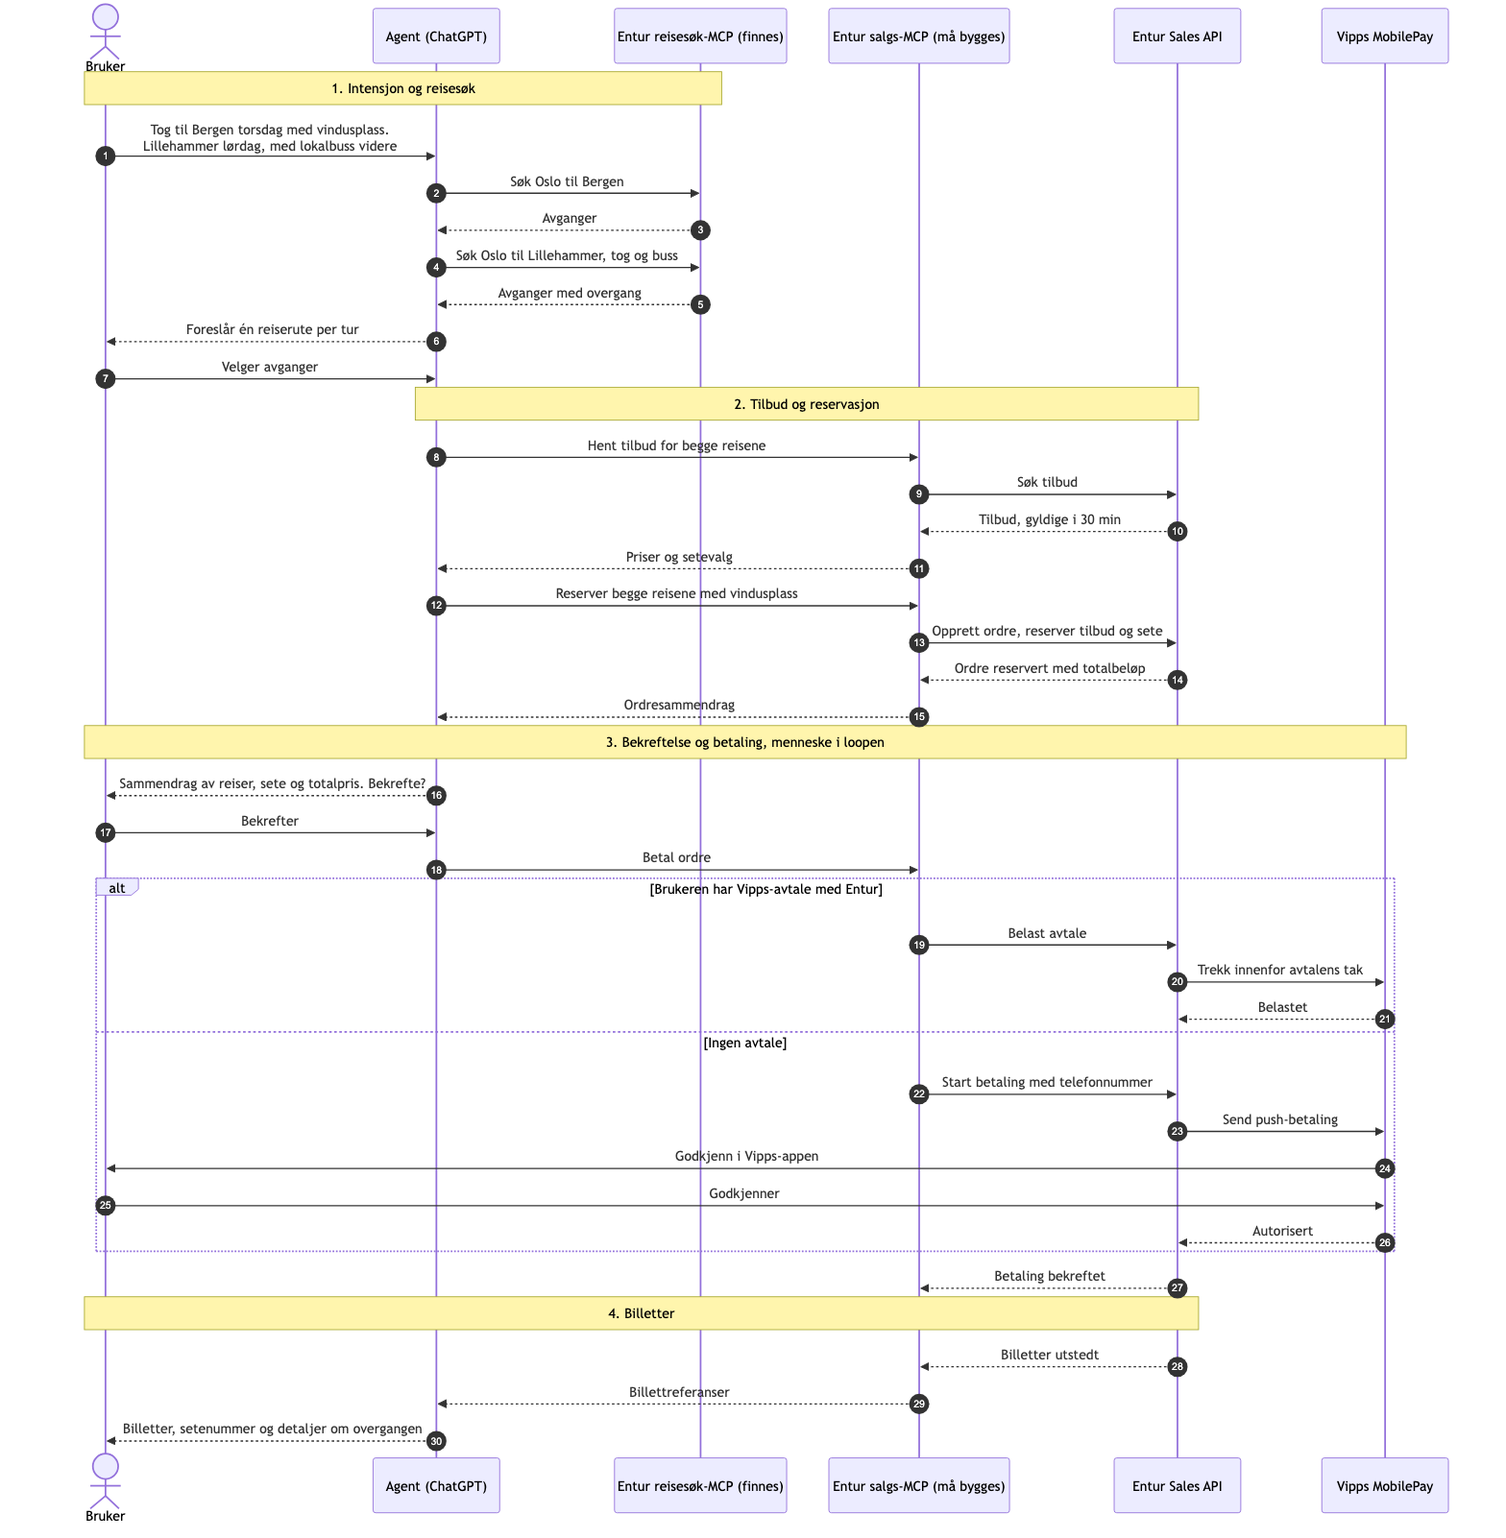
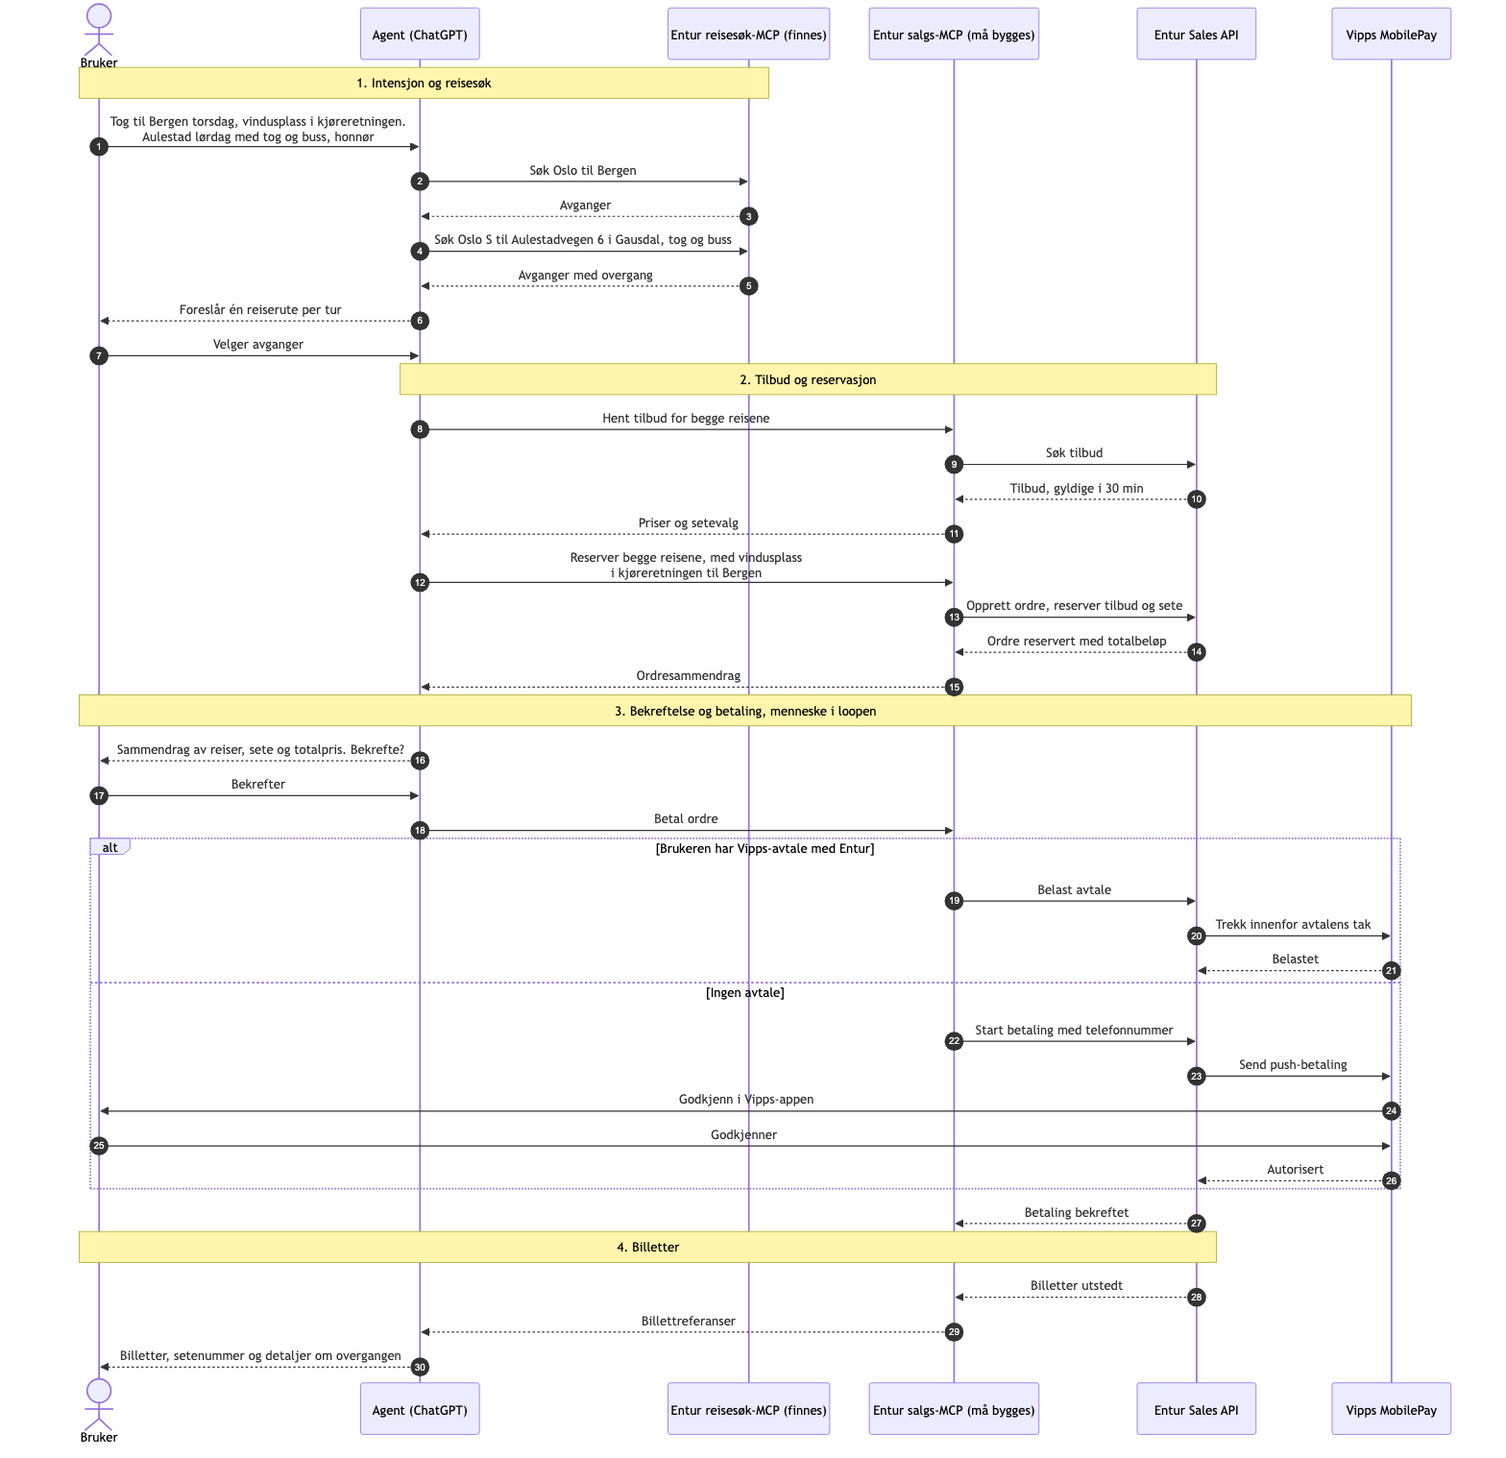
Aulestad med honnørbillett og vindusplass i kjøreretningen til Bergen
Use-case 2 går nå til Bjørnstjerne Bjørnsons hjem på Aulestad i Gausdal,
med honnørbillett på tog og buss. Use-case 1 ber om vindusplass i
kjøreretningen. Oversiktssiden, diagramkildene og STATUS.md følger med.

Claude-Session: https://claude.ai/code/session_015NLFDcrihZTFgXd8Z9LAtM

diff --git a/brukerflyt/lillehammer.html b/brukerflyt/lillehammer.html
@@ -3,7 +3,7 @@
 <head>
 <meta charset="utf-8">
 <meta name="viewport" content="width=device-width,initial-scale=1">
-<title>Tog og buss til Lillehammer</title>
+<title>Tog og buss til Aulestad</title>
 <link rel="preconnect" href="https://fonts.googleapis.com">
 <link rel="preconnect" href="https://fonts.gstatic.com" crossorigin>
 <link href="https://fonts.googleapis.com/css2?family=Inter:wght@400;500;600;700&family=DM+Mono:wght@400;500&display=swap" rel="stylesheet">
@@ -76,8 +76,8 @@
 <header class="hero">
   <div class="inner">
     <a class="crumb" href="agentisk-billettkjop.html">← Agentisk billettkjøp</a>
-    <h1>Tog og buss til Lillehammer</h1>
-    <p class="sub">Use-case 2: agenten setter sammen en reise med tog og lokalbuss, kjøper billett for begge etappene og betaler med Vipps etter at brukeren har bekreftet.</p>
+    <h1>Tog og buss til Aulestad</h1>
+    <p class="sub">Use-case 2: agenten finner adressen til Bjørnstjerne Bjørnsons hjem på Aulestad, setter sammen en reise med tog og buss, kjøper honnørbillett for begge etappene og betaler med Vipps etter at brukeren har bekreftet.</p>
     <div class="jump">
       <a href="#scenario">Scenario</a>
       <a href="#flyt">Flyten</a>
@@ -89,12 +89,12 @@
 <section id="scenario">
   <div class="wrap">
     <h2>Scenario</h2>
-    <p class="lead">Brukeren oppgir et sted og et tidspunkt, ikke en rute. Agenten finner kombinasjonen av tog og buss, kjøper begge billettene samlet og forklarer overgangen.</p>
+    <p class="lead">Brukeren oppgir navnet på et sted og et tidspunkt, ikke en adresse eller en rute. Agenten finner at Aulestad ligger i Aulestadvegen 6 i Gausdal, setter sammen tog og buss, kjøper begge billettene samlet og forklarer overgangen.</p>
     <div class="grid g2">
       <div class="card trip">
         <span class="tag">TOG OG BUSS</span>
-        <h3>Oslo S til Håkons Hall</h3>
-        <ul class="legs"><li><span>Lørdag</span>Tog Oslo S til Lillehammer stasjon</li><li><span>Overgang</span>Lokalbuss fra stasjonen til Håkons Hall</li><li><span>Frist</span>Fremme før kl. 12</li></ul>
+        <h3>Oslo S til Aulestad</h3>
+        <ul class="legs"><li><span>Lørdag</span>Tog Oslo S til Lillehammer stasjon</li><li><span>Overgang</span>Buss fra Lillehammer skysstasjon til holdeplassen Aulestad</li><li><span>Billett</span>Honnør på begge etappene</li><li><span>Frist</span>Fremme før kl. 12</li></ul>
       </div>
     </div>
   </div>
@@ -122,15 +122,15 @@ sequenceDiagram
     participant V as Vipps MobilePay
 
     Note over B,R: 1. Intensjon og reisesøk
-    B->>A: Jeg skal til Håkons Hall i Lillehammer lørdag<br/>og må være der før kl. 12
-    A->>R: Søk Oslo S til Håkons Hall, ankomst før 12
+    B->>A: Jeg skal til Bjørnstjerne Bjørnsons hjem på Aulestad<br/>lørdag og må være der før kl. 12. Honnørbillett
+    A->>R: Søk Oslo S til Aulestadvegen 6 i Gausdal,<br/>ankomst før 12
     R-->>A: Reiseforslag med tog og buss
-    A-->>B: Foreslår tog til Lillehammer stasjon<br/>og buss videre, med overgangstid
+    A-->>B: Foreslår tog til Lillehammer<br/>og buss videre til Aulestad, med overgangstid
     B->>A: Velger reiseforslag
 
     Note over A,API: 2. Tilbud for begge etappene
     A->>S: Hent tilbud for hele reisen
-    S->>API: Søk tilbud for tog og buss
+    S->>API: Søk honnørtilbud for tog og buss
     API-->>S: Tilbud for hver etappe, gyldige i 30 min
     S-->>A: Pris per etappe og totalpris
     A->>S: Reserver begge etappene
@@ -139,7 +139,7 @@ sequenceDiagram
     S-->>A: Ordresammendrag
 
     Note over B,V: 3. Bekreftelse og betaling, menneske i loopen
-    A-->>B: Tog, buss, overgangstid og totalpris. Bekrefte?
+    A-->>B: Tog, buss, overgangstid og honnørpris. Bekrefte?
     B->>A: Bekrefter
     A->>S: Betal ordre
     alt Brukeren har Vipps-avtale med Entur
@@ -156,7 +156,7 @@ sequenceDiagram
     API-->>S: Betaling bekreftet
 
     Note over B,API: 4. Billetter og overgang
-    API-->>S: Billetter utstedt for tog og buss
+    API-->>S: Honnørbilletter utstedt for tog og buss
     S-->>A: Billettreferanser
     A-->>B: Billetter, hvor bussen går fra<br/>og hvor lang tid overgangen har
 </pre>
@@ -167,7 +167,7 @@ sequenceDiagram
 <section id="steg">
   <div class="wrap">
     <h2>Stegene</h2>
-    <div class="grid g4"><div class="card"><span class="tag">1 · INTENSJON</span><h3>Reisesøk</h3><p>Brukeren sier hvor og når de må være fremme. Agenten finner en reise med tog og buss gjennom reisesøk-MCP-en og viser overgangstiden.</p></div><div class="card"><span class="tag">2 · RESERVASJON</span><h3>Begge etappene</h3><p>Agenten henter tilbud for tog og buss og reserverer begge i én ordre. Tilbudene er gyldige i 30 minutter.</p></div><div class="card"><span class="tag">3 · BEKREFTELSE</span><h3>Menneske i loopen</h3><p>Brukeren ser sammendraget og bekrefter. Har brukeren en Vipps-avtale med Entur, trekkes beløpet der. Ellers godkjennes en push-betaling i Vipps-appen.</p></div><div class="card"><span class="tag">4 · BILLETTER</span><h3>Levering</h3><p>Billettene utstedes, og agenten forteller hvor bussen går fra og hvor lang tid overgangen har.</p></div></div>
+    <div class="grid g4"><div class="card"><span class="tag">1 · INTENSJON</span><h3>Reisesøk</h3><p>Brukeren navngir stedet og sier når de må være fremme. Agenten finner adressen, Aulestadvegen 6 i Gausdal, og en reise med tog og buss gjennom reisesøk-MCP-en.</p></div><div class="card"><span class="tag">2 · RESERVASJON</span><h3>Begge etappene</h3><p>Agenten henter honnørtilbud for tog og buss og reserverer begge i én ordre. Tilbudene er gyldige i 30 minutter.</p></div><div class="card"><span class="tag">3 · BEKREFTELSE</span><h3>Menneske i loopen</h3><p>Brukeren ser sammendraget og bekrefter. Har brukeren en Vipps-avtale med Entur, trekkes beløpet der. Ellers godkjennes en push-betaling i Vipps-appen.</p></div><div class="card"><span class="tag">4 · BILLETTER</span><h3>Levering</h3><p>Billettene utstedes, og agenten forteller hvor bussen går fra og hvor lang tid overgangen har.</p></div></div>
   </div>
 </section>
 
@@ -185,15 +185,15 @@ sequenceDiagram
     participant V as Vipps MobilePay
 
     Note over B,R: 1. Intensjon og reisesøk
-    B-&gt;&gt;A: Jeg skal til Håkons Hall i Lillehammer lørdag&lt;br/&gt;og må være der før kl. 12
-    A-&gt;&gt;R: Søk Oslo S til Håkons Hall, ankomst før 12
+    B-&gt;&gt;A: Jeg skal til Bjørnstjerne Bjørnsons hjem på Aulestad&lt;br/&gt;lørdag og må være der før kl. 12. Honnørbillett
+    A-&gt;&gt;R: Søk Oslo S til Aulestadvegen 6 i Gausdal,<br/>ankomst før 12
     R--&gt;&gt;A: Reiseforslag med tog og buss
-    A--&gt;&gt;B: Foreslår tog til Lillehammer stasjon&lt;br/&gt;og buss videre, med overgangstid
+    A--&gt;&gt;B: Foreslår tog til Lillehammer&lt;br/&gt;og buss videre til Aulestad, med overgangstid
     B-&gt;&gt;A: Velger reiseforslag
 
     Note over A,API: 2. Tilbud for begge etappene
     A-&gt;&gt;S: Hent tilbud for hele reisen
-    S-&gt;&gt;API: Søk tilbud for tog og buss
+    S-&gt;&gt;API: Søk honnørtilbud for tog og buss
     API--&gt;&gt;S: Tilbud for hver etappe, gyldige i 30 min
     S--&gt;&gt;A: Pris per etappe og totalpris
     A-&gt;&gt;S: Reserver begge etappene
@@ -202,7 +202,7 @@ sequenceDiagram
     S--&gt;&gt;A: Ordresammendrag
 
     Note over B,V: 3. Bekreftelse og betaling, menneske i loopen
-    A--&gt;&gt;B: Tog, buss, overgangstid og totalpris. Bekrefte?
+    A--&gt;&gt;B: Tog, buss, overgangstid og honnørpris. Bekrefte?
     B-&gt;&gt;A: Bekrefter
     A-&gt;&gt;S: Betal ordre
     alt Brukeren har Vipps-avtale med Entur
@@ -219,7 +219,7 @@ sequenceDiagram
     API--&gt;&gt;S: Betaling bekreftet
 
     Note over B,API: 4. Billetter og overgang
-    API--&gt;&gt;S: Billetter utstedt for tog og buss
+    API--&gt;&gt;S: Honnørbilletter utstedt for tog og buss
     S--&gt;&gt;A: Billettreferanser
     A--&gt;&gt;B: Billetter, hvor bussen går fra&lt;br/&gt;og hvor lang tid overgangen har
 </pre>

diff --git a/brukerflyt/agentisk-billettkjop.html b/brukerflyt/agentisk-billettkjop.html
@@ -92,16 +92,17 @@
         <h3>Oslo S til Bergen</h3>
         <ul class="legs">
           <li><span>Torsdag</span>Tog Oslo S til Bergen</li>
-          <li><span>Sete</span>Vindusplass reserveres i samme kjøp</li>
+          <li><span>Sete</span>Vindusplass i kjøreretningen, reservert i samme kjøp</li>
         </ul>
         <span class="more">Les use-caset →</span>
       </a>
       <a class="card trip" href="lillehammer.html">
         <span class="tag">REISE 2 · TOG OG BUSS</span>
-        <h3>Oslo S til Lillehammer</h3>
+        <h3>Oslo S til Aulestad</h3>
         <ul class="legs">
           <li><span>Lørdag</span>Tog Oslo S til Lillehammer stasjon</li>
-          <li><span>Overgang</span>Lokalbuss videre til bestemmelsesstedet</li>
+          <li><span>Overgang</span>Buss videre til Aulestad i Gausdal</li>
+          <li><span>Billett</span>Honnør på begge etappene</li>
         </ul>
         <span class="more">Les use-caset →</span>
       </a>
@@ -131,10 +132,10 @@ sequenceDiagram
     participant V as Vipps MobilePay
 
     Note over B,R: 1. Intensjon og reisesøk
-    B->>A: Tog til Bergen torsdag med vindusplass.<br/>Lillehammer lørdag, med lokalbuss videre
+    B->>A: Tog til Bergen torsdag, vindusplass i kjøreretningen.<br/>Aulestad lørdag med tog og buss, honnør
     A->>R: Søk Oslo til Bergen
     R-->>A: Avganger
-    A->>R: Søk Oslo til Lillehammer, tog og buss
+    A->>R: Søk Oslo S til Aulestadvegen 6 i Gausdal, tog og buss
     R-->>A: Avganger med overgang
     A-->>B: Foreslår én reiserute per tur
     B->>A: Velger avganger
@@ -144,7 +145,7 @@ sequenceDiagram
     S->>API: Søk tilbud
     API-->>S: Tilbud, gyldige i 30 min
     S-->>A: Priser og setevalg
-    A->>S: Reserver begge reisene med vindusplass
+    A->>S: Reserver begge reisene, med vindusplass<br/>i kjøreretningen til Bergen
     S->>API: Opprett ordre, reserver tilbud og sete
     API-->>S: Ordre reservert med totalbeløp
     S-->>A: Ordresammendrag
@@ -181,7 +182,7 @@ sequenceDiagram
     <h2>Stegene</h2>
     <div class="grid g4">
       <div class="card"><span class="tag">1 · INTENSJON</span><h3>Reisesøk</h3><p>Brukeren beskriver reisene med egne ord. Agenten finner avganger og overgangen til buss gjennom reisesøk-MCP-en, og foreslår én rute per reise.</p></div>
-      <div class="card"><span class="tag">2 · RESERVASJON</span><h3>Tilbud og sete</h3><p>Agenten henter tilbud og reserverer begge reisene med vindusplass i én ordre. Tilbudene er gyldige i 30 minutter.</p></div>
+      <div class="card"><span class="tag">2 · RESERVASJON</span><h3>Tilbud og sete</h3><p>Agenten henter tilbud og reserverer begge reisene i én ordre, med vindusplass i kjøreretningen til Bergen og honnørbillett til Aulestad. Tilbudene er gyldige i 30 minutter.</p></div>
       <div class="card"><span class="tag">3 · BEKREFTELSE</span><h3>Menneske i loopen</h3><p>Brukeren ser reiser, sete og totalpris og bekrefter. Har brukeren en Vipps-avtale med Entur, trekkes beløpet der. Ellers godkjennes en push-betaling i Vipps-appen.</p></div>
       <div class="card"><span class="tag">4 · BILLETTER</span><h3>Levering</h3><p>Billettene utstedes, og agenten gir brukeren setenummer og detaljer om overgangen fra tog til buss.</p></div>
     </div>
@@ -194,7 +195,7 @@ sequenceDiagram
     <p class="lead">Tegningen bygger på noen forutsetninger vi må avklare før demoen.</p>
     <ul class="open">
       <li><b>Én ordre for begge reisene.</b> Tillater Sales API at tog og lokalbuss fra ulike operatører selges og betales samlet?</li>
-      <li><b>Valg av vindusplass.</b> Kan brukeren be om vindusplass gjennom salgsflyten, eller får man bare et tildelt sete?</li>
+      <li><b>Valg av vindusplass.</b> Kan brukeren be om vindusplass i kjøreretningen gjennom salgsflyten, eller får man bare et tildelt sete?</li>
       <li><b>Bekreftelse ved avtale.</b> Holder det at brukeren bekrefter i chatten når pengene trekkes fra en eksisterende avtale, eller må det også bekreftes i Vipps-appen?</li>
       <li><b>Hvem er brukeren.</b> Er telefonnummer nok til å knytte kjøpet i ChatGPT til riktig Vipps-bruker og eventuell avtale?</li>
       <li><b>Hvor betalingen kalles fra.</b> Her går betalingen gjennom Enturs Sales API. Alternativet er en egen Vipps-MCP som agenten kaller direkte.</li>
@@ -211,10 +212,10 @@ sequenceDiagram
     participant V as Vipps MobilePay
 
     Note over B,R: 1. Intensjon og reisesøk
-    B-&gt;&gt;A: Tog til Bergen torsdag med vindusplass.&lt;br/&gt;Lillehammer lørdag, med lokalbuss videre
+    B-&gt;&gt;A: Tog til Bergen torsdag, vindusplass i kjøreretningen.&lt;br/&gt;Aulestad lørdag med tog og buss, honnør
     A-&gt;&gt;R: Søk Oslo til Bergen
     R--&gt;&gt;A: Avganger
-    A-&gt;&gt;R: Søk Oslo til Lillehammer, tog og buss
+    A-&gt;&gt;R: Søk Oslo S til Aulestadvegen 6 i Gausdal, tog og buss
     R--&gt;&gt;A: Avganger med overgang
     A--&gt;&gt;B: Foreslår én reiserute per tur
     B-&gt;&gt;A: Velger avganger
@@ -224,7 +225,7 @@ sequenceDiagram
     S-&gt;&gt;API: Søk tilbud
     API--&gt;&gt;S: Tilbud, gyldige i 30 min
     S--&gt;&gt;A: Priser og setevalg
-    A-&gt;&gt;S: Reserver begge reisene med vindusplass
+    A-&gt;&gt;S: Reserver begge reisene, med vindusplass<br/>i kjøreretningen til Bergen
     S-&gt;&gt;API: Opprett ordre, reserver tilbud og sete
     API--&gt;&gt;S: Ordre reservert med totalbeløp
     S--&gt;&gt;A: Ordresammendrag

diff --git a/brukerflyt/bergen.html b/brukerflyt/bergen.html
@@ -77,7 +77,7 @@
   <div class="inner">
     <a class="crumb" href="agentisk-billettkjop.html">← Agentisk billettkjøp</a>
     <h1>Tog til Bergen med sete</h1>
-    <p class="sub">Use-case 1: agenten finner en avgang til Bergen, reserverer vindusplass og betaler med Vipps etter at brukeren har bekreftet.</p>
+    <p class="sub">Use-case 1: agenten finner en avgang til Bergen, reserverer vindusplass i kjøreretningen og betaler med Vipps etter at brukeren har bekreftet.</p>
     <div class="jump">
       <a href="#scenario">Scenario</a>
       <a href="#flyt">Flyten</a>
@@ -94,7 +94,7 @@
       <div class="card trip">
         <span class="tag">TOG MED SETE</span>
         <h3>Oslo S til Bergen</h3>
-        <ul class="legs"><li><span>Torsdag</span>Tog Oslo S til Bergen, formiddag</li><li><span>Sete</span>Vindusplass reserveres i samme kjøp</li></ul>
+        <ul class="legs"><li><span>Torsdag</span>Tog Oslo S til Bergen, formiddag</li><li><span>Sete</span>Vindusplass i kjøreretningen, reservert i samme kjøp</li></ul>
       </div>
     </div>
   </div>
@@ -122,7 +122,7 @@ sequenceDiagram
     participant V as Vipps MobilePay
 
     Note over B,R: 1. Intensjon og reisesøk
-    B->>A: Jeg skal til Bergen torsdag formiddag.<br/>Fiks tog med vindusplass
+    B->>A: Jeg skal til Bergen torsdag formiddag.<br/>Fiks tog med vindusplass i kjøreretningen
     A->>R: Søk Oslo S til Bergen, torsdag formiddag
     R-->>A: Avganger og reisetid
     A-->>B: Foreslår to avganger
@@ -133,7 +133,7 @@ sequenceDiagram
     S->>API: Søk tilbud med setereservasjon
     API-->>S: Tilbud, gyldige i 30 min
     S-->>A: Pris, billettype og setevalg
-    A->>S: Reserver tilbud med vindusplass
+    A->>S: Reserver tilbud med vindusplass i kjøreretningen
     S->>API: Opprett ordre, reserver tilbud og sete
     API-->>S: Ordre reservert med vogn, sete og totalbeløp
     S-->>A: Ordresammendrag
@@ -167,7 +167,7 @@ sequenceDiagram
 <section id="steg">
   <div class="wrap">
     <h2>Stegene</h2>
-    <div class="grid g4"><div class="card"><span class="tag">1 · INTENSJON</span><h3>Reisesøk</h3><p>Brukeren sier hvor og når. Agenten finner avganger gjennom reisesøk-MCP-en og foreslår to alternativer.</p></div><div class="card"><span class="tag">2 · RESERVASJON</span><h3>Tilbud og sete</h3><p>Agenten henter tilbud med setereservasjon og reserverer vindusplass. Tilbudet er gyldig i 30 minutter.</p></div><div class="card"><span class="tag">3 · BEKREFTELSE</span><h3>Menneske i loopen</h3><p>Brukeren ser sammendraget og bekrefter. Har brukeren en Vipps-avtale med Entur, trekkes beløpet der. Ellers godkjennes en push-betaling i Vipps-appen.</p></div><div class="card"><span class="tag">4 · BILLETT</span><h3>Levering</h3><p>Billetten utstedes, og agenten gir brukeren vogn- og setenummer.</p></div></div>
+    <div class="grid g4"><div class="card"><span class="tag">1 · INTENSJON</span><h3>Reisesøk</h3><p>Brukeren sier hvor og når. Agenten finner avganger gjennom reisesøk-MCP-en og foreslår to alternativer.</p></div><div class="card"><span class="tag">2 · RESERVASJON</span><h3>Tilbud og sete</h3><p>Agenten henter tilbud med setereservasjon og reserverer vindusplass i kjøreretningen. Tilbudet er gyldig i 30 minutter.</p></div><div class="card"><span class="tag">3 · BEKREFTELSE</span><h3>Menneske i loopen</h3><p>Brukeren ser sammendraget og bekrefter. Har brukeren en Vipps-avtale med Entur, trekkes beløpet der. Ellers godkjennes en push-betaling i Vipps-appen.</p></div><div class="card"><span class="tag">4 · BILLETT</span><h3>Levering</h3><p>Billetten utstedes, og agenten gir brukeren vogn- og setenummer.</p></div></div>
   </div>
 </section>
 
@@ -185,7 +185,7 @@ sequenceDiagram
     participant V as Vipps MobilePay
 
     Note over B,R: 1. Intensjon og reisesøk
-    B-&gt;&gt;A: Jeg skal til Bergen torsdag formiddag.&lt;br/&gt;Fiks tog med vindusplass
+    B-&gt;&gt;A: Jeg skal til Bergen torsdag formiddag.&lt;br/&gt;Fiks tog med vindusplass i kjøreretningen
     A-&gt;&gt;R: Søk Oslo S til Bergen, torsdag formiddag
     R--&gt;&gt;A: Avganger og reisetid
     A--&gt;&gt;B: Foreslår to avganger
@@ -196,7 +196,7 @@ sequenceDiagram
     S-&gt;&gt;API: Søk tilbud med setereservasjon
     API--&gt;&gt;S: Tilbud, gyldige i 30 min
     S--&gt;&gt;A: Pris, billettype og setevalg
-    A-&gt;&gt;S: Reserver tilbud med vindusplass
+    A-&gt;&gt;S: Reserver tilbud med vindusplass i kjøreretningen
     S-&gt;&gt;API: Opprett ordre, reserver tilbud og sete
     API--&gt;&gt;S: Ordre reservert med vogn, sete og totalbeløp
     S--&gt;&gt;A: Ordresammendrag
@@ -230,7 +230,7 @@ sequenceDiagram
 <section>
   <div class="wrap next">
     <a href="agentisk-billettkjop.html">← Oversikt</a>
-    <a href="lillehammer.html">Tog og buss til Lillehammer →</a>
+    <a href="lillehammer.html">Tog og buss til Aulestad →</a>
   </div>
 </section>
 

diff --git a/brukerflyt/STATUS.md b/brukerflyt/STATUS.md
@@ -7,8 +7,8 @@ Førsteutkast til brukerflyten for demoen med Vipps MobilePay. Agenten kjøper b
 | Fil | Hva det er |
 |---|---|
 | `agentisk-billettkjop.html` | Oversikt med begge reisene i ett kjøp, og lenker til hvert use-case |
-| `bergen.html` | Use-case 1: tog Oslo S til Bergen med vindusplass |
-| `lillehammer.html` | Use-case 2: tog og lokalbuss Oslo S til Håkons Hall |
+| `bergen.html` | Use-case 1: tog Oslo S til Bergen med vindusplass i kjøreretningen |
+| `lillehammer.html` | Use-case 2: tog og buss Oslo S til Aulestad i Gausdal, honnørbillett |
 | `*.mmd` | Mermaid-kilden til hvert diagram. Sidene har samme kode innebygd |
 | `chatgpt-flyt.png` | Oversiktsdiagrammet som bilde, til deling i Slack |
 
@@ -30,8 +30,8 @@ npx -y @mermaid-js/mermaid-cli@11.4.2 -i chatgpt-flyt.mmd -o chatgpt-flyt.png -s
 ## Åpne spørsmål
 
 - Kan tog og buss fra ulike operatører selges og betales i samme ordre?
-- Kan brukeren be om vindusplass gjennom salgsflyten, og er setereservasjonen et eget tilleggsprodukt?
-- Hvilken bussbillett selges i Lillehammer, og hva skjer med den hvis toget er forsinket?
+- Kan brukeren be om vindusplass i kjøreretningen gjennom salgsflyten, og er setereservasjonen et eget tilleggsprodukt?
+- Hvilken bussbillett selges mellom Lillehammer og Aulestad, og hva skjer med den hvis toget er forsinket?
 - Holder bekreftelse i chatten når beløpet trekkes fra en eksisterende Vipps-avtale?
 - Er telefonnummer nok til å identifisere brukeren når kjøpet starter i ChatGPT?
 - Skal betalingen gå gjennom Sales API eller gjennom en egen Vipps-MCP?
